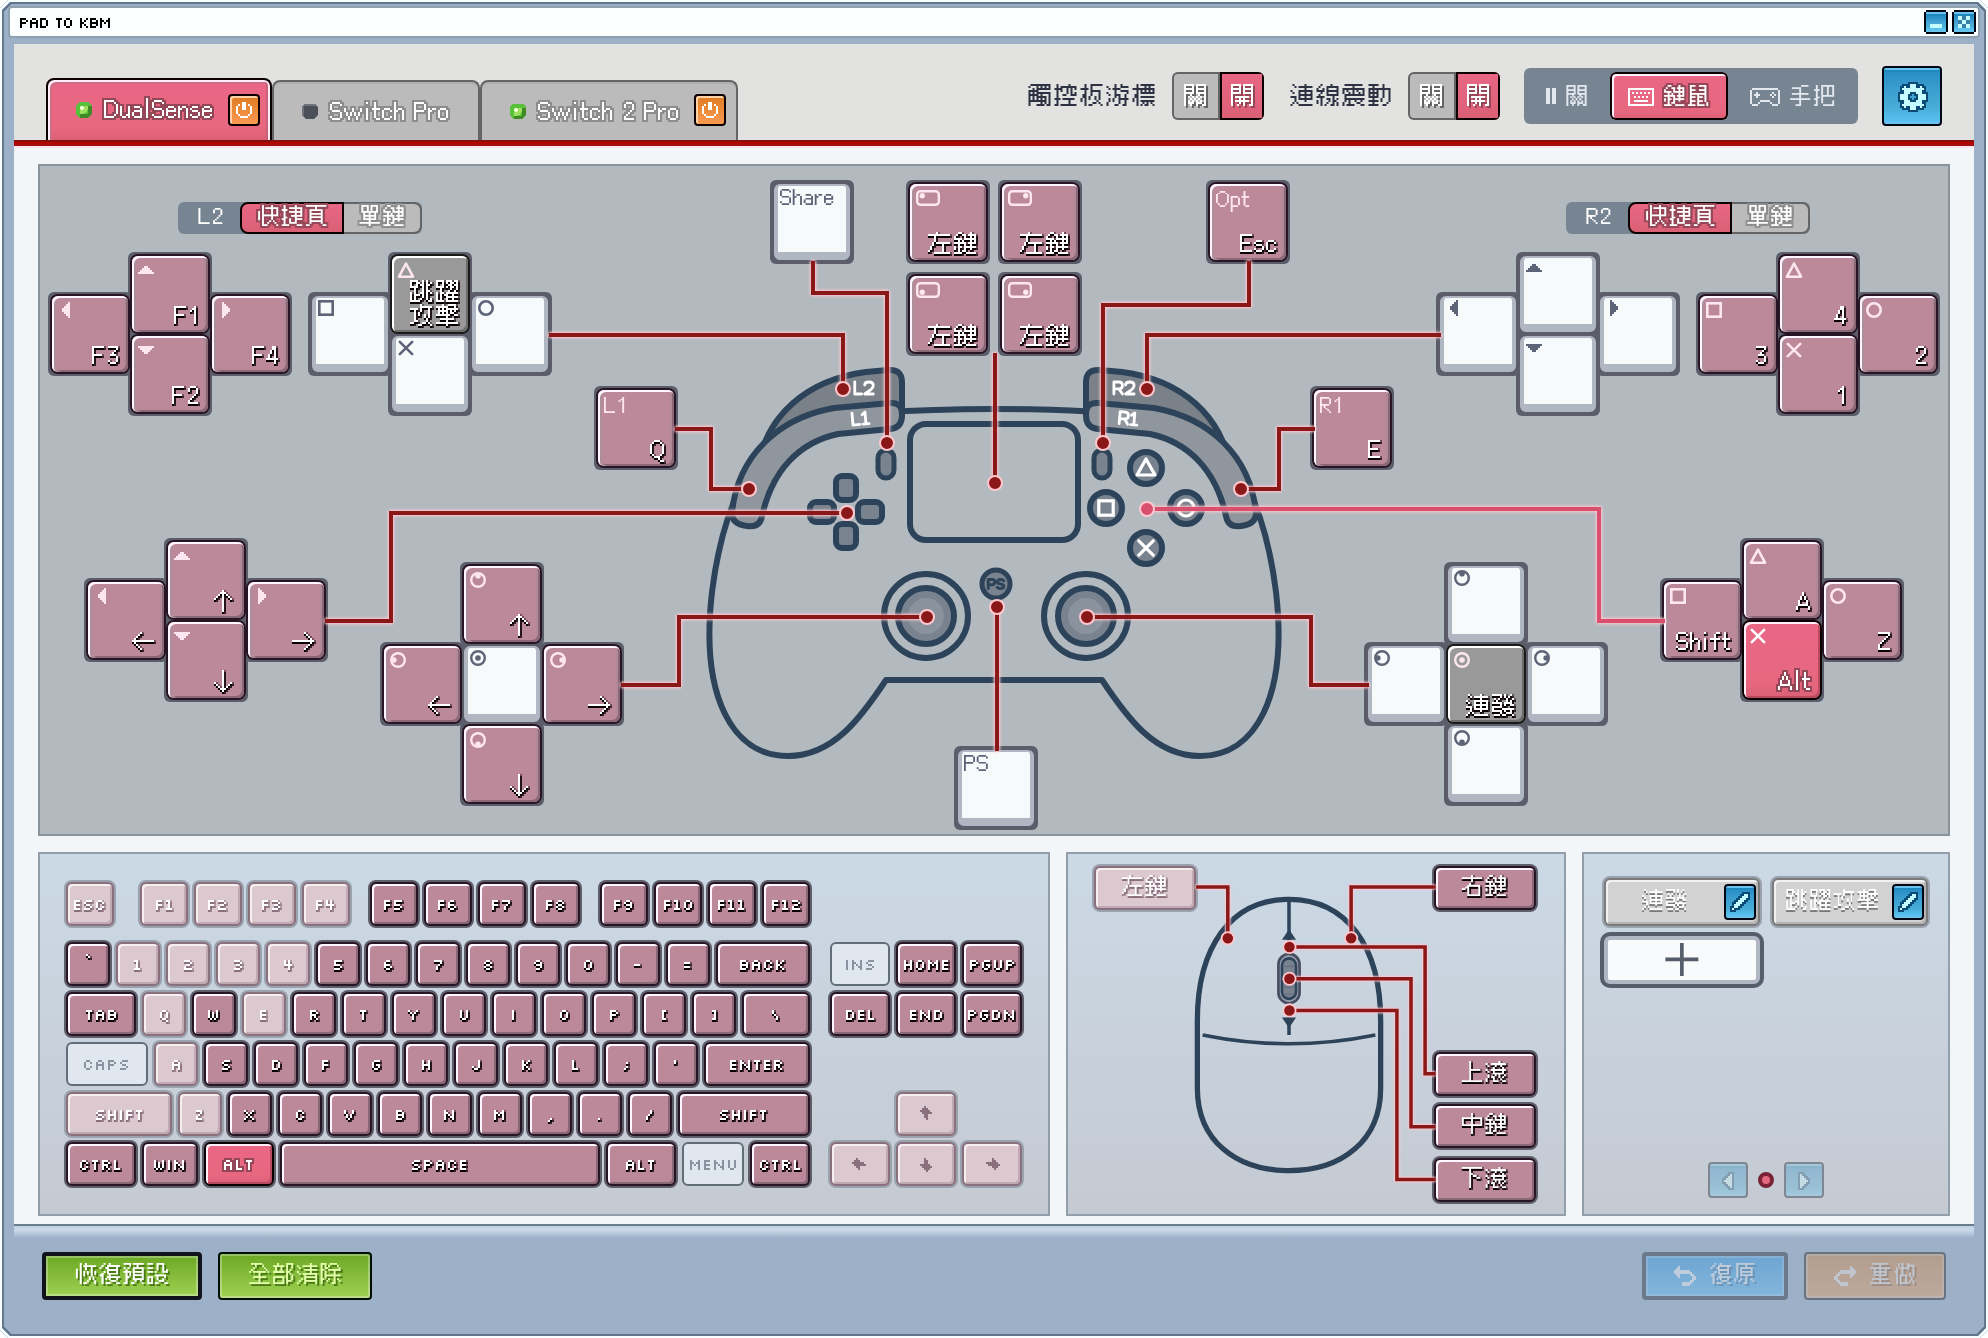
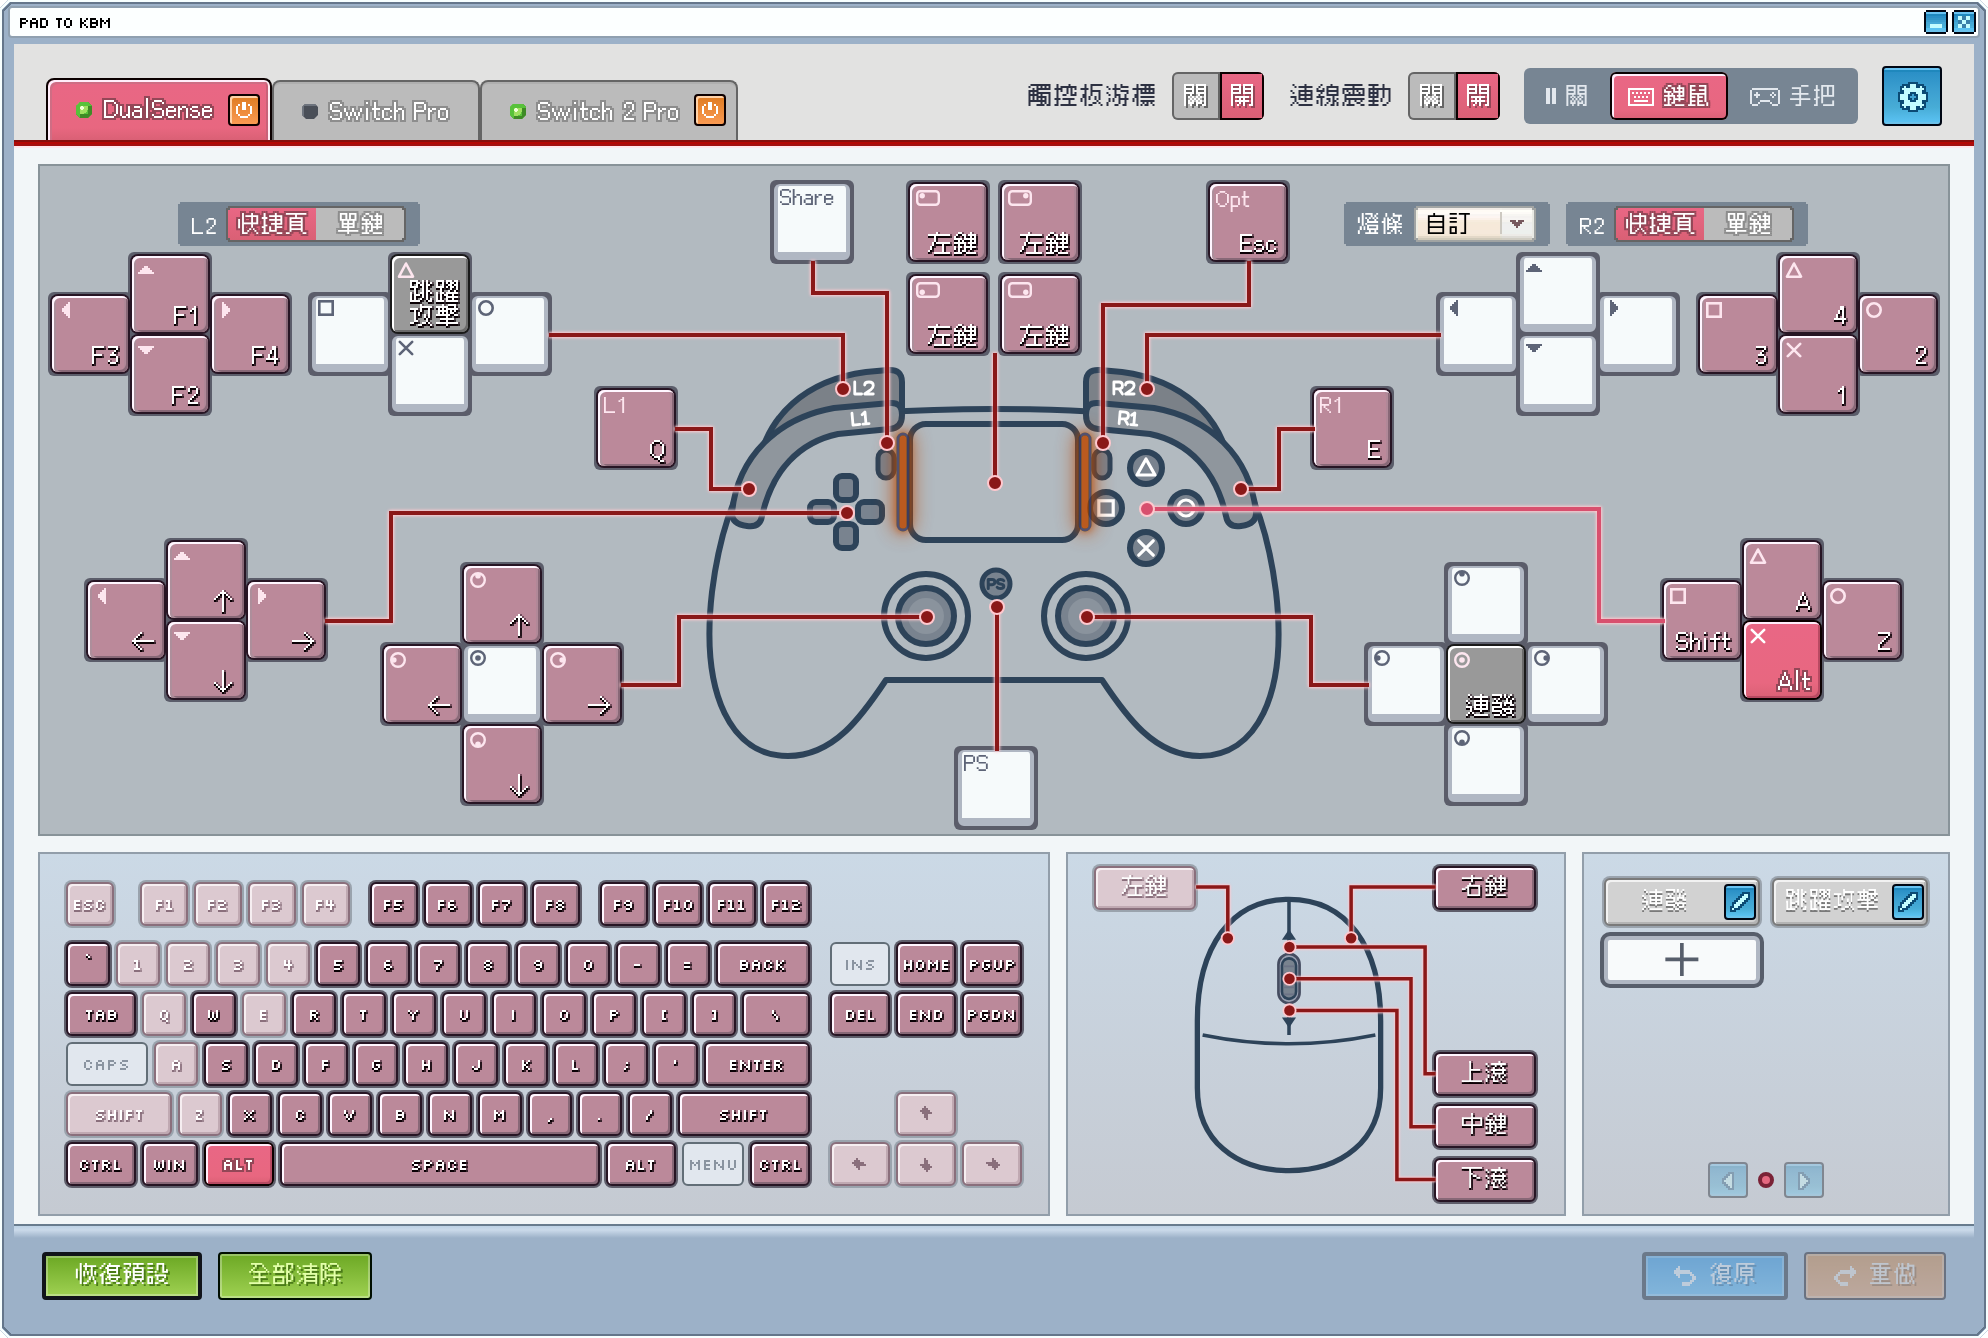
release(v3.5.0): DualSense lightbar
Claude-Session: https://claude.ai/code/session_01MsgSqLCDUQbegvAps4C2em

diff --git a/CHANGELOG.md b/CHANGELOG.md
@@ -3,6 +3,40 @@
 Format follows [Keep a Changelog](https://keepachangelog.com/en/1.1.0/);
 project adheres to [Semantic Versioning](https://semver.org/spec/v2.0.0.html).
 
+## [3.5.0] - 2026-10-21
+
+### Added
+
+- **DualSense light bar.** The DualSense board has a 燈條 dropdown with three
+  choices: 關閉, 原廠燈 and 自訂. 自訂 opens a panel with two settings, 鍵鼠時
+  (the pad is on keyboard and mouse) and 非鍵鼠時 (it is on 手把 or 關).
+- 鍵鼠時 offers 關燈 / 固定 / 呼吸 / 彩虹, 非鍵鼠時 offers 關燈 / 固定. Each effect
+  has a colour from six presets or a custom hue / saturation / hex pick, and
+  a brightness in steps of 10. 呼吸 and 彩虹 have four speeds (慢 / 中 / 快 /
+  極快). 彩虹 has 呼吸換色: the colour changes step by step instead of
+  gliding.
+- The pad art on the board shows a strip that previews the light.
+- A new `lightbar` block in `padtokbm.json` holds all of this.
+
+### Changed
+
+- The L2 / R2 quick page and single-key caps use the new reference style.
+- The dropdown closes with a second click on its field or a click outside.
+  Esc does not close it: the board has no keyboard shortcuts.
+
+### Migration
+
+- A config without `lightbar` gets 自訂, 彩虹 on 鍵鼠時 and 關燈 on 非鍵鼠時.
+  Choose 原廠燈 to keep the light the way it was.
+- Switching to 原廠燈 in the middle of a session leaves the light on its last
+  colour until the pad reconnects.
+- On 手把, PadToKBM keeps writing the light and overrides the colour of a
+  game or Steam Input. Choose 原廠燈 to hand the light back.
+- While a Switch Pro is the active pad, the DualSense is not opened and keeps
+  its light.
+- Closing the app leaves the light on the 非鍵鼠時 setting.
+- The macOS Phase 2 plan is unaffected: the light goes through hidapi.
+
 ## [3.4.1] - 2026-10-19
 
 ### Fixed

diff --git a/README.md b/README.md
@@ -110,6 +110,11 @@ PadToKBM（舊名 DualSense Mapper）是一個 Windows 小程式：一個約 11 
 可以，點手把名稱旁的電源鍵。配對會保留，按 PS／HOME 鍵就能再連上。
 只想讓遊戲直接用手把（不轉鍵鼠）就選「手把」；暫時不想讓它送東西就選「關」。
 
+### 想讓遊戲或 Steam 控制燈條，怎麼辦？
+
+把「燈條」選成「原廠燈」，PadToKBM 就一個位元組都不寫，燈交給遊戲或 Steam。
+從別的選項切回原廠燈後，要重新連線手把，燈才會恢復。
+
 ### 支援 USB、DualSense Edge、Xbox 手把或 macOS 嗎？
 
 目前不支援：只走藍牙，Windows 限定。macOS 版還在計畫中；那之前 macOS 可以用 [`legacy-python/`](legacy-python/README.md) 的舊版 Python 程式（只支援 DualSense）。
